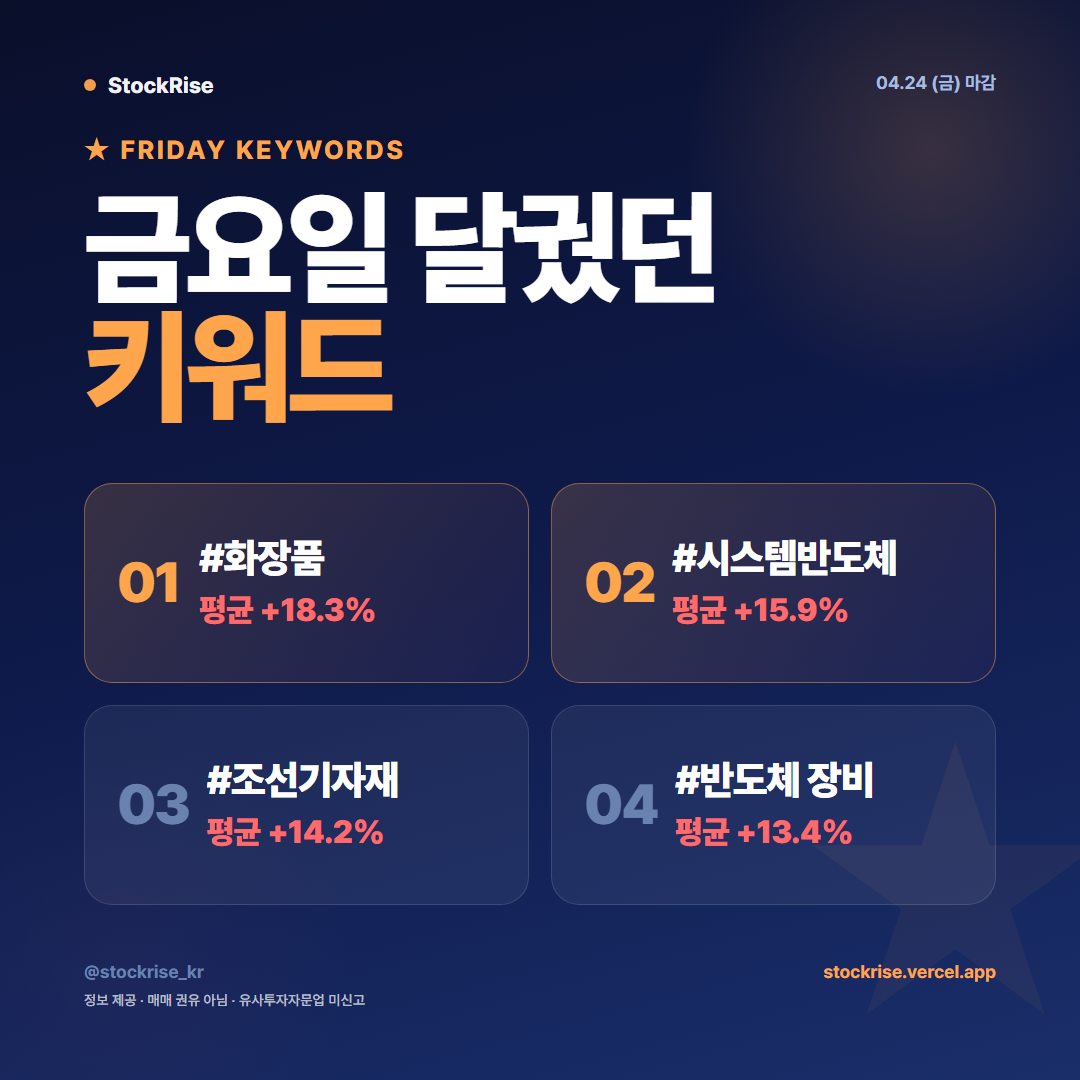
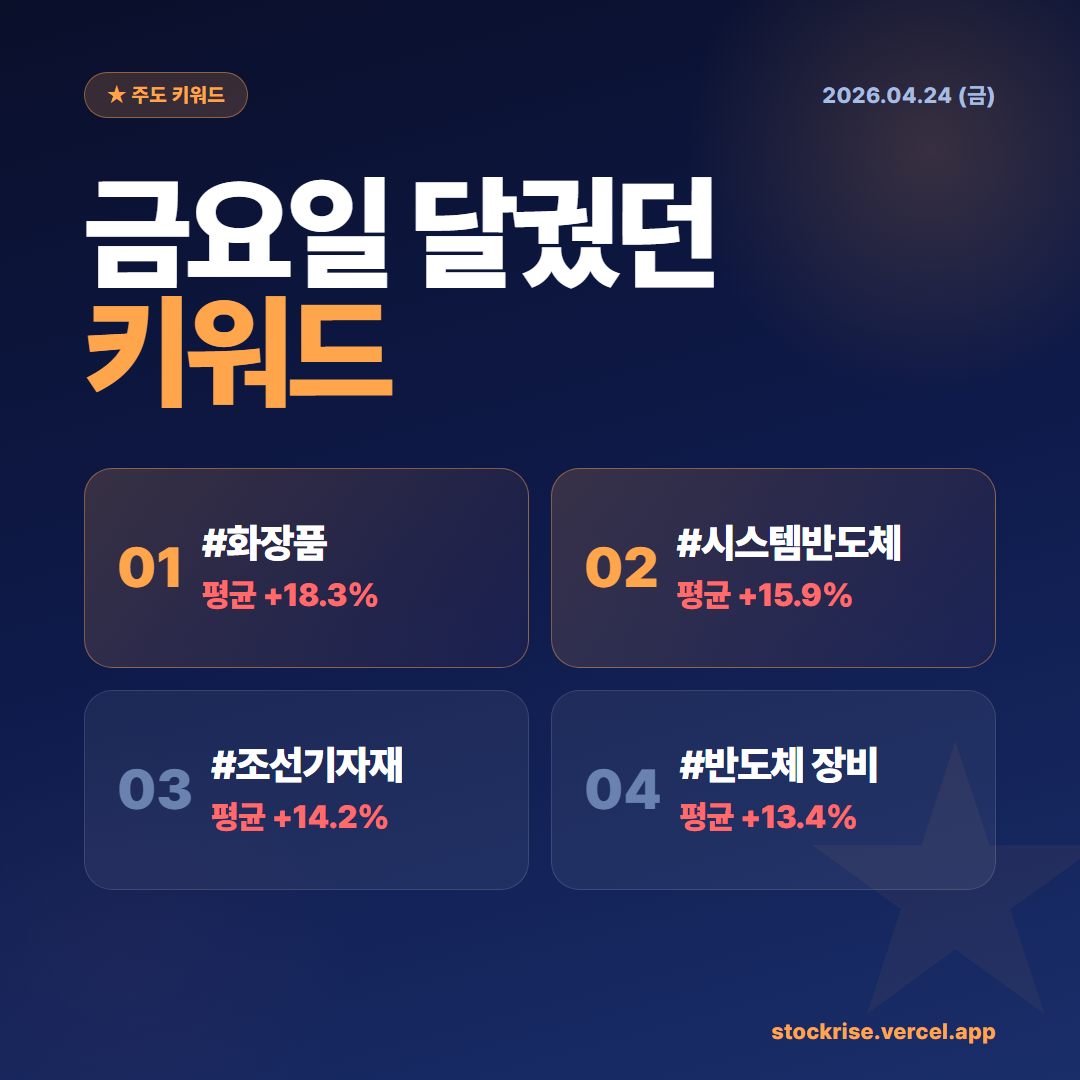
feat(cards): 모든 카드 헤더/푸터 통일 + close 카드 콘텐츠 보강
헤더/푸터 통일 (사용자 요청):
- 좌상: ★ {카드 카테고리} (한글) — 주도 키워드 / 뉴욕 마감 / 주도 종목 /
        대장주 / 대장 테마 / 마감 시황 / 핵심 이슈
- 우상: 2026.04.24 (금) (날짜만, 시간/마감 단어 제거)
- 좌하: 비움 (브랜드/disclaimer 모두 제거)
- 우하: stockrise.vercel.app (URL 만)

base.html.tmpl 이 헤더/푸터 일괄 처리 → 각 카드는 main content 만 작성.

close 카드 내용 보강:
- summary.json 기반 통계 박스 3개 (상한가 N종목 / TOP 100 평균 / 거래대금 1위)
- kr_indices fetch 실패해도 카드가 휑하지 않음 (이전: KOSPI/KOSDAQ 영역만,
  실패 시 본문 거의 비었음)

diff --git a/cards/templates/_base.css b/cards/templates/_base.css
@@ -28,41 +28,27 @@ body {
   background: transparent;
   padding: 72px 84px 72px;
 }
-.top {
+/* 모든 카드 통일 헤더 — 좌상 카테고리 라벨 + 우상 날짜만. */
+.card-header {
   display: flex;
   justify-content: space-between;
-  align-items: flex-start;
+  align-items: center;
   gap: 20px;
   position: relative;
   z-index: 2;
 }
-.brand {
-  display: flex;
-  align-items: center;
-  gap: 12px;
+.card-label {
+  display: inline-block;
+  padding: 10px 22px;
+  border-radius: 100px;
+  font-size: 20px;
+  font-weight: 800;
+  letter-spacing: 0.02em;
+}
+.card-date {
   font-size: 22px;
   font-weight: 800;
-  opacity: 0.95;
-}
-.brand-dot {
-  width: 12px;
-  height: 12px;
-  border-radius: 50%;
-}
-.time {
-  font-size: 18px;
-  font-weight: 700;
-}
-.label {
-  display: inline-block;
-  padding: 9px 22px;
-  border-radius: 100px;
-  font-size: 17px;
-  font-weight: 800;
-  letter-spacing: 0.04em;
-  align-self: flex-start;
-  position: relative;
-  z-index: 2;
+  letter-spacing: 0.02em;
 }
 .eyebrow {
   margin-top: 36px;
@@ -92,23 +78,15 @@ body {
   position: relative;
   z-index: 2;
 }
-.footer {
-  margin-top: auto;
-  padding-top: 24px;
-  display: flex;
-  justify-content: space-between;
-  align-items: center;
-  font-size: 18px;
-  font-weight: 700;
-  position: relative;
+/* 우하단 URL 만 — 좌하단 + disclaimer 모두 제거 (시그니처 단순화) */
+.card-url {
+  position: absolute;
+  bottom: 36px;
+  right: 84px;
+  font-size: 22px;
+  font-weight: 800;
+  letter-spacing: 0.02em;
   z-index: 2;
-}
-.disclaimer {
-  margin-top: 10px;
-  font-size: 14px;
-  font-weight: 500;
-  opacity: 0.7;
-  letter-spacing: 0.01em;
 }
 .bg-glow {
   position: absolute;

diff --git a/cards/data_loader.py b/cards/data_loader.py
@@ -31,6 +31,12 @@ def _date_kr_short(yyyymmdd):
     return f"{dt.month}월 {dt.day}일"
 
 
+def _date_full(yyyymmdd):
+    """20260424 → '2026.04.24 (금)' (모든 카드 우상단 통일 포맷)."""
+    dt = _yyyymmdd_to_dt(yyyymmdd)
+    return f"{dt.year}.{dt.strftime('%m.%d')} ({config.WEEKDAY_KO[dt.weekday()]})"
+
+
 def _weekday_ko(yyyymmdd):
     return config.WEEKDAY_KO[_yyyymmdd_to_dt(yyyymmdd).weekday()]
 
@@ -152,6 +158,7 @@ def load_day(yyyymmdd):
         'date': yyyymmdd,
         'date_kr': _date_kr_full(yyyymmdd),
         'date_kr_short': _date_kr_short(yyyymmdd),
+        'date_full': _date_full(yyyymmdd),
         'weekday_ko': _weekday_ko(yyyymmdd),
         'weekday_en': _weekday_en(yyyymmdd),
         'rankings': rankings,
@@ -187,12 +194,8 @@ def build_pre(day):
         return None
     return {
         'series': 'pre',
-        'date_kr': day['date_kr'],
-        'date_kr_short': day['date_kr_short'],
-        'weekday_en': day['weekday_en'],
-        'weekday_ko': day['weekday_ko'],
-        'eyebrow': f"★ {day['weekday_en']} KEYWORDS",
-        'time_text': f"{day['date_kr']} 마감",
+        'date_full': day['date_full'],
+        'label': '★ 주도 키워드',
         'title_top': f"{day['weekday_ko']}요일 달궜던",
         'title_em': '키워드',
         'keywords': [
@@ -208,14 +211,13 @@ def build_pre(day):
 
 
 def build_pre2(day, us_indices):
-    """카드 2 — 미국 마감. 3 지수 + mood 한 줄. 한국 시장 노트 제거."""
+    """카드 2 — 미국 마감. 3 지수 + mood 한 줄."""
     if not us_indices:
         return None
     return {
         'series': 'pre',
-        'date_kr': day['date_kr'],
-        'time_text': f"NY · {day['date_kr']} 마감",
-        'label': 'US MARKET',
+        'date_full': day['date_full'],
+        'label': '★ 뉴욕 마감',
         'title_top': '뉴욕',
         'title_em': '마감',
         'indices': [
@@ -238,12 +240,10 @@ def build_pre3(day):
         return None
     return {
         'series': 'pre',
-        'date_kr': day['date_kr'],
-        'time_text': f"{day['date_kr']} 마감",
+        'date_full': day['date_full'],
         'label': '★ 주도 종목',
         'title_top': f"{day['weekday_ko']}요일의",
         'title_em': '대장',
-        'title_bot': '',
         'themes': [
             {
                 'rank': f"{i + 1:02d}",
@@ -260,17 +260,15 @@ def build_pre3(day):
 
 
 def build_leader(day):
-    """카드 4 — 대장주 1개. 종목명 + 등락률 초대형. 점수 박스 제거."""
+    """카드 4 — 대장주 1개. 종목명 + 등락률 초대형."""
     leader = _select_leader_stock(day['rankings'])
     if not leader:
         return None
     top_theme = _theme_group_for(leader, day['themes'])
     return {
         'series': 'leader',
-        'date_kr': day['date_kr'],
-        'weekday_ko': day['weekday_ko'],
-        'time_text': f"{day['date_kr']} 마감",
-        'eyebrow': f"★ {day['weekday_en']} LEADER",
+        'date_full': day['date_full'],
+        'label': '★ 대장주',
         'title_em': '대장주',
         'badge_theme': top_theme['tag'],
         'name': leader['name'],
@@ -283,7 +281,7 @@ def build_leader(day):
 
 
 def build_leader2(day):
-    """카드 5 — 대장 테마 + 멤버 5명. 큰 글씨, WHY/FLOW 텍스트 제거."""
+    """카드 5 — 대장 테마 + 멤버 5명."""
     leader = _select_leader_stock(day['rankings'])
     if not leader:
         return None
@@ -293,9 +291,8 @@ def build_leader2(day):
     members = top_theme['members'][:config.LEADER_MEMBERS_TOP]
     return {
         'series': 'leader',
-        'date_kr': day['date_kr'],
-        'time_text': f"{day['date_kr']} 마감",
-        'label': '★ THEME',
+        'date_full': day['date_full'],
+        'label': '★ 대장 테마',
         'title_top': f"{day['weekday_ko']}요일",
         'title_em': '대장 테마',
         'theme_name': f"#{top_theme['tag']}",
@@ -312,11 +309,10 @@ def build_leader2(day):
     }
 
 
-def build_close(day, kr_indices):
-    """카드 6 — 마감 한 줄 요약.
+def build_close(day, kr_indices, summary):
+    """카드 6 — 마감 시황. 지수 + 통계 + 대장 테마.
 
-    대장 테마는 큰 테마(>=KEYWORD_MIN_THEME_MEMBERS) 우선,
-    TOP 거래대금은 거래대금 정렬 1위 (등락률 정렬과 다름).
+    kr_indices 가 None 일 때 휑함 방지 — summary.json 기반 fallback 통계 사용.
     """
     big = _big_themes(day)
     if not big:
@@ -326,8 +322,6 @@ def build_close(day, kr_indices):
         max(day['rankings'], key=lambda s: s.get('trading_value', 0))
         if day['rankings'] else None
     )
-    limit_ups = sum(1 for s in day['rankings'] if ts.is_limit_up(s['change_rate']))
-    strong_themes = sum(1 for t in day['themes'] if t['avg_rate'] >= config.STRONG_THEME_AVG)
 
     indices = []
     if kr_indices:
@@ -344,14 +338,27 @@ def build_close(day, kr_indices):
                 'flat': abs(idx['pct']) <= 0.05,
             })
 
+    # summary.json 기반 시장 통계 (kr_indices 실패해도 카드가 풍성)
+    market_stats = []
+    if summary:
+        if summary.get('limitUp'):
+            market_stats.append({'label': '상한가', 'value': f"{summary['limitUp']}종목"})
+        if summary.get('avgRate'):
+            market_stats.append({'label': 'TOP 100 평균', 'value': f"+{summary['avgRate']:.1f}%"})
+    if top_stock_by_volume:
+        market_stats.append({
+            'label': '거래대금 1위',
+            'value': f"{top_stock_by_volume['name']} {ts.fmt_won(top_stock_by_volume['trading_value'])}",
+        })
+
     return {
         'series': 'close',
-        'date_kr': day['date_kr'],
-        'time_text': f"{day['date_kr']} 마감",
-        'eyebrow': '★ MARKET CLOSE',
+        'date_full': day['date_full'],
+        'label': '★ 마감 시황',
         'title_top': '장 마감',
         'title_em': '한 줄 요약',
         'indices': indices,
+        'market_stats': market_stats,
         'leader_label': '대장 테마',
         'leader_name': f"#{top_theme['tag']}",
         'leader_rate': top_theme['avg_rate'],
@@ -359,7 +366,7 @@ def build_close(day, kr_indices):
 
 
 def build_close2(day):
-    """카드 7 — 핵심 이슈 3장만 (큰 글씨). 섹터 grid 제거."""
+    """카드 7 — 핵심 이슈 3장만 (큰 글씨)."""
     big = _big_themes(day)
     if not big:
         return None
@@ -375,9 +382,8 @@ def build_close2(day):
     ]
     return {
         'series': 'close',
-        'date_kr': day['date_kr'],
-        'time_text': f"{day['date_kr']} 마감",
-        'label': "★ ISSUES",
+        'date_full': day['date_full'],
+        'label': '★ 핵심 이슈',
         'title_top': f"{day['weekday_ko']}요일,",
         'title_em': '핵심 이슈',
         'issues': issues,
@@ -398,13 +404,14 @@ def build_all(yyyymmdd, us_indices=None, kr_indices=None):
         dict: {'pre','pre2','pre3','leader','leader2','close','close2','_meta'}
     """
     day = load_day(yyyymmdd)
+    summary = load_summary(yyyymmdd)
     return {
         'pre':     build_pre(day),
         'pre2':    build_pre2(day, us_indices),
         'pre3':    build_pre3(day),
         'leader':  build_leader(day),
         'leader2': build_leader2(day),
-        'close':   build_close(day, kr_indices),
+        'close':   build_close(day, kr_indices, summary),
         'close2':  build_close2(day),
         '_meta': {
             'date': yyyymmdd,
